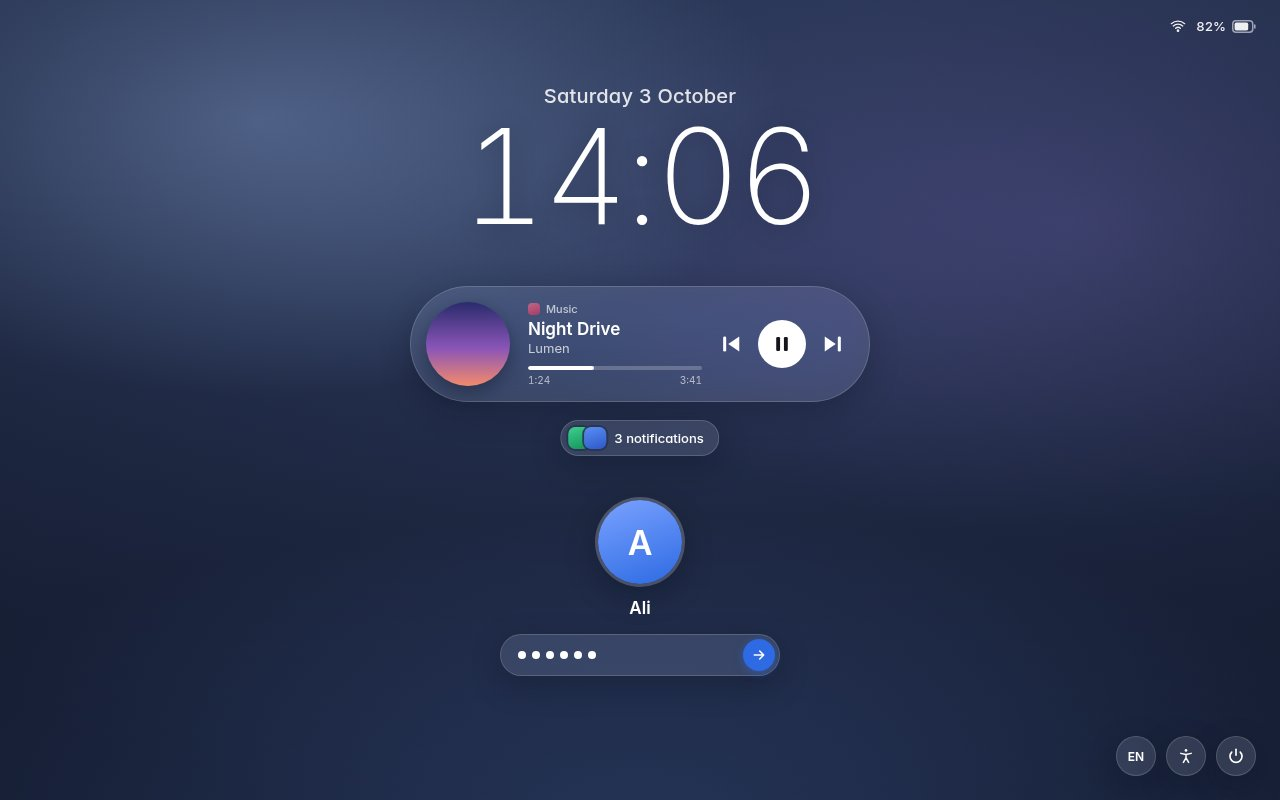
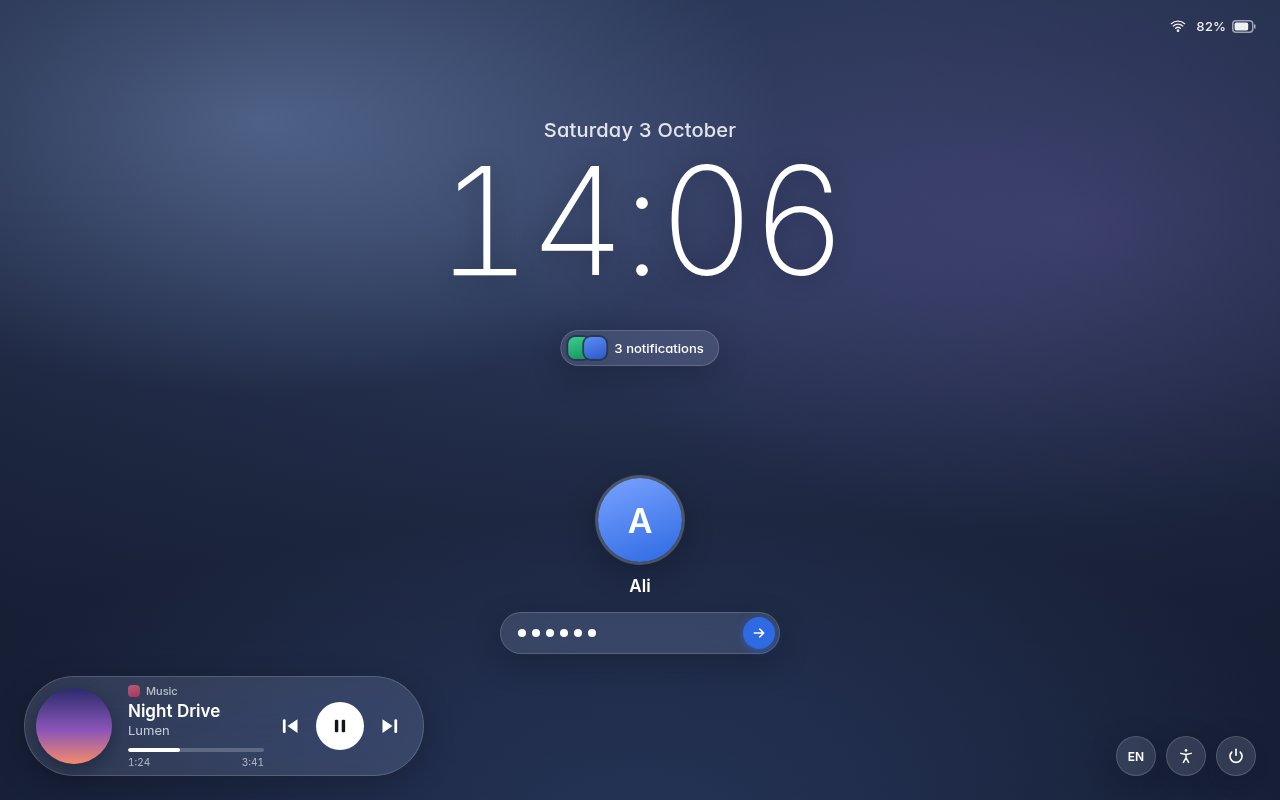
Put the shade's battery back on the clock's row and the lock screen's player in a corner
Alimardon's review of 2026-10-10: the buttons on the top row did not
work, so the clock and the battery share the top row again and the
buttons sit on the date's; the phone lock screen's player moves up
under the clock, leaving room for notifications; and the laptop lock
screen's player, which crowded the middle, becomes a card in the bottom
left corner, across from the buttons.

Claude-Session: https://claude.ai/code/session_01BKmt1qoa5mKGyQ4ytiEsKo

Changed region(s): [[0.3125, 0.1562, 0.6875, 0.8438], [0.0, 0.8438, 0.3438, 0.9688], [0.4375, 0.0938, 0.5625, 0.125]]

diff --git a/docs/mockups/shell/canvas/DecTablet.dc.html b/docs/mockups/shell/canvas/DecTablet.dc.html
@@ -110,13 +110,15 @@ a{color:#2459c9}
 .shelf .more{background:#fff;color:#17191d;box-shadow:0 0 0 .5px rgba(20,22,28,.08),0 1px 2px rgba(20,22,28,.08)}
 /* header actions */
 .head{display:flex;flex-direction:column;gap:0;padding:0 4px 0 6px;font-variant-numeric:tabular-nums}
-.head .l1{display:flex;align-items:center;justify-content:space-between;margin:-2px 0 6px}
-.head .big{font-size:46px;font-weight:700;letter-spacing:-.035em;line-height:1}
+.head .l1,.head .l2{display:flex;align-items:center;justify-content:space-between}
+.head .l1{align-items:flex-start}
+.head .big{font-size:44px;font-weight:700;letter-spacing:-.035em;line-height:1}
+.head .bat{display:flex;align-items:center;gap:6px;font-size:13px;font-weight:600;margin-top:6px}
+.head .l2{margin-top:2px}
+.head .date{font-size:14px;opacity:.62}
 .head .acts{display:flex;gap:8px}
-.head .acts .ib{width:38px !important;height:38px !important;border-radius:12px !important;background:rgba(20,22,28,.06) !important}
-.head .acts .ib svg{width:17px;height:17px}
-.head .bat{display:flex;align-items:center;gap:6px;font-size:13px;font-weight:600}
-.head .date{font-size:14px;opacity:.62;margin-top:4px}
+.head .acts .ib{width:36px !important;height:36px !important;border-radius:11px !important;background:rgba(20,22,28,.06) !important}
+.head .acts .ib svg{width:16px;height:16px}
 .dots{display:flex;justify-content:center;gap:5px;margin:-8px 0 2px}
 .dots i{display:block}
 .wsv{width:94px;overflow:hidden;padding:4px 0;-webkit-mask-image:linear-gradient(90deg,#000 0,#000 calc(100% - 16px),transparent 100%);mask-image:linear-gradient(90deg,#000 0,#000 calc(100% - 16px),transparent 100%)}
@@ -160,7 +162,7 @@ a{color:#2459c9}
 </style>
 </helmet>
 <div class="tab"><div class="tbar"><div style="display:flex;align-items:center" role="group" aria-label="Workspaces, 1 of 7 shown"><span class="wch off"><svg width="10" height="10" viewBox="0 0 24 24" fill="none" stroke="currentColor" stroke-width="3" stroke-linecap="round" stroke-linejoin="round"><path d="M15 5l-7 7 7 7"/></svg></span><div class="wsv" style="width:126px"><div class="wsr" style="gap:6px"><span class="wp on" style="height:32px;min-width:50px;border-radius:16px;font-size:13px">1</span><span class="wp" style="height:32px;min-width:32px;border-radius:16px;font-size:13px">2</span><span class="wp" style="height:32px;min-width:32px;border-radius:16px;font-size:13px">3</span><span class="wp" style="height:32px;min-width:32px;border-radius:16px;font-size:13px">4</span><span class="wp e" style="height:32px;min-width:32px;border-radius:16px;font-size:13px">5</span><span class="wp e" style="height:32px;min-width:32px;border-radius:16px;font-size:13px">6</span><span class="wp e" style="height:32px;min-width:32px;border-radius:16px;font-size:13px">7</span></div></div><span class="wch"><svg width="10" height="10" viewBox="0 0 24 24" fill="none" stroke="currentColor" stroke-width="3" stroke-linecap="round" stroke-linejoin="round"><path d="M9 5l7 7-7 7"/></svg></span></div><button class="btn" style="height:36px;min-width:44px;border-radius:18px" aria-label="Layout: tiling"><svg width="14" height="14" viewBox="0 0 24 24" fill="none" stroke="currentColor" stroke-width="2"><rect x="3.5" y="4.5" width="17" height="15" rx="3"/><path d="M12 4.5v15"/></svg></button><span style="margin-left:auto;display:flex;align-items:center;gap:6px"><span class="arw" style="width:44px;height:44px"><svg width="12" height="12" viewBox="0 0 24 24" fill="none" stroke="currentColor" stroke-width="2.6" stroke-linecap="round" stroke-linejoin="round"><path d="M6 9l6 6 6-6"/></svg></span><span role="img" aria-label="Chat" style="width:24px;height:24px;border-radius:7px;background:#5b7cf0;color:#fff;display:inline-flex;align-items:center;justify-content:center;font-size:13px;font-weight:600;flex:none">C</span><span class="stp" style="height:36px;border-radius:18px;padding:0 14px"><svg width="14" height="14" viewBox="0 0 24 24" fill="none" stroke="currentColor" stroke-width="2.3" stroke-linecap="round"><path d="M2.5 9a14 14 0 0 1 19 0M5.5 12.5a9.5 9.5 0 0 1 13 0M8.6 16a5 5 0 0 1 6.8 0"/><circle cx="12" cy="19.2" r="1.1" fill="currentColor" stroke="none"/></svg><svg width="14" height="14" viewBox="0 0 24 24" fill="none" stroke="currentColor" stroke-width="2" stroke-linecap="round" stroke-linejoin="round"><path d="M4 9.5h3.5L12 5.5v13l-4.5-4H4z" fill="currentColor"/><path d="M15.5 9a4.5 4.5 0 0 1 0 6"/></svg><svg width="18" height="14" viewBox="0 0 28 16" fill="none" stroke="currentColor" stroke-width="1.6"><rect x="1" y="2" width="22" height="12" rx="3.5"/><rect x="3.5" y="4.5" width="14" height="7" rx="1.5" fill="currentColor" stroke="none"/><path d="M25.5 6v4" stroke-linecap="round"/></svg></span><b style="font-size:14px;font-weight:600;padding:0 6px">14:05</b></span></div><div class="win" style="left:8px;top:60px;width:578px;height:752px"><div class="bar28"><span role="img" aria-label="Files" style="width:16px;height:16px;border-radius:4px;background:#6b7280;color:#fff;display:inline-flex;align-items:center;justify-content:center;font-size:8px;font-weight:600;flex:none">B</span><span>Files</span><span class="btns"><span aria-label="Minimize"><svg width="14" height="14" viewBox="0 0 14 14" fill="none" stroke="currentColor" stroke-width="1.5" stroke-linecap="round"><path d="M2.5 7H11.5"/></svg></span><span aria-label="Maximize"><svg width="14" height="14" viewBox="0 0 14 14" fill="none" stroke="currentColor" stroke-width="1"><rect x="2.5" y="2.5" width="9" height="9"/></svg></span><span aria-label="Close"><svg width="14" height="14" viewBox="0 0 14 14" fill="none" stroke="currentColor" stroke-width="1.5" stroke-linecap="round"><path d="M2.5 2.5L11.5 11.5M2.5 11.5L11.5 2.5"/></svg></span></span></div><div class="ln" style="width:90%"></div><div class="ln" style="width:77%"></div><div class="ln" style="width:64%"></div><div class="ln" style="width:51%"></div><div class="ln" style="width:88%"></div><div class="ln" style="width:75%"></div><div class="ln" style="width:62%"></div><div class="ln" style="width:49%"></div><div class="ln" style="width:86%"></div><div class="ln" style="width:73%"></div><div class="ln" style="width:60%"></div><div class="ln" style="width:47%"></div></div><div class="win focused" style="left:594px;top:60px;width:578px;height:752px"><div class="bar28"><span role="img" aria-label="Notes" style="width:16px;height:16px;border-radius:4px;background:#e3a73a;color:#fff;display:inline-flex;align-items:center;justify-content:center;font-size:8px;font-weight:600;flex:none">N</span><span>Notes</span><span class="btns"><span aria-label="Minimize"><svg width="14" height="14" viewBox="0 0 14 14" fill="none" stroke="currentColor" stroke-width="1.5" stroke-linecap="round"><path d="M2.5 7H11.5"/></svg></span><span aria-label="Maximize"><svg width="14" height="14" viewBox="0 0 14 14" fill="none" stroke="currentColor" stroke-width="1"><rect x="2.5" y="2.5" width="9" height="9"/></svg></span><span aria-label="Close"><svg width="14" height="14" viewBox="0 0 14 14" fill="none" stroke="currentColor" stroke-width="1.5" stroke-linecap="round"><path d="M2.5 2.5L11.5 11.5M2.5 11.5L11.5 2.5"/></svg></span></span></div><div class="ln" style="width:90%"></div><div class="ln" style="width:77%"></div><div class="ln" style="width:64%"></div><div class="ln" style="width:51%"></div><div class="ln" style="width:88%"></div><div class="ln" style="width:75%"></div><div class="ln" style="width:62%"></div><div class="ln" style="width:49%"></div><div class="ln" style="width:86%"></div><div class="ln" style="width:73%"></div><div class="ln" style="width:60%"></div><div class="ln" style="width:47%"></div></div><div style="position:absolute;right:12px;top:62px;width:390px;display:flex;flex-direction:column;gap:8px">    <div class="sheet glass">
-      <div class="head"><div class="l1"><span class="bat" aria-label="Battery 82 percent">82%<svg width="24" height="13" viewBox="0 0 28 15" fill="none" stroke="currentColor" stroke-width="1.6" aria-hidden="true"><rect x="1" y="1.5" width="22" height="12" rx="3.6"/><rect x="3.4" y="3.9" width="14.6" height="7.2" rx="1.6" fill="currentColor" stroke="none"/><path d="M25.4 5.8v3.4" stroke-linecap="round"/></svg></span><span class="acts"><button class="ib" aria-label="Edit"><svg width="17" height="17" viewBox="0 0 24 24" fill="none" stroke="currentColor" stroke-width="2" stroke-linecap="round" stroke-linejoin="round"><path d="M4 20h4L19 9l-4-4L4 16z"/></svg></button><button class="ib" aria-label="Settings"><svg width="18" height="18" viewBox="0 0 24 24" fill="none" stroke="currentColor" stroke-width="1.9" stroke-linejoin="round"><circle cx="12" cy="12" r="3"/><path d="M12 2.8l1.7 2.4 2.9-.5.9 2.8 2.7 1.2-.6 2.9 1.6 2.4-2.3 1.8.1 2.9-2.9.4-1.3 2.6L12 21.2l-2.7.9-1.3-2.6-2.9-.4.1-2.9-2.3-1.8 1.6-2.4-.6-2.9 2.7-1.2.9-2.8 2.9.5z"/></svg></button><button class="ib" aria-label="Power: lock, log out, restart or power off"><svg width="17" height="17" viewBox="0 0 24 24" fill="none" stroke="currentColor" stroke-width="2.1" stroke-linecap="round"><path d="M12 3v8"/><path d="M6.3 6.8a8 8 0 1 0 11.4 0"/></svg></button></span></div><div class="big">14:05</div><div class="date">Saturday 3 October 2026</div></div>
+      <div class="head"><div class="l1"><div class="big">14:05</div><span class="bat" aria-label="Battery 82 percent">82%<svg width="24" height="13" viewBox="0 0 28 15" fill="none" stroke="currentColor" stroke-width="1.6" aria-hidden="true"><rect x="1" y="1.5" width="22" height="12" rx="3.6"/><rect x="3.4" y="3.9" width="14.6" height="7.2" rx="1.6" fill="currentColor" stroke="none"/><path d="M25.4 5.8v3.4" stroke-linecap="round"/></svg></span></div><div class="l2"><div class="date">Saturday 3 October 2026</div><span class="acts"><button class="ib" aria-label="Edit"><svg width="17" height="17" viewBox="0 0 24 24" fill="none" stroke="currentColor" stroke-width="2" stroke-linecap="round" stroke-linejoin="round"><path d="M4 20h4L19 9l-4-4L4 16z"/></svg></button><button class="ib" aria-label="Settings"><svg width="18" height="18" viewBox="0 0 24 24" fill="none" stroke="currentColor" stroke-width="1.9" stroke-linejoin="round"><circle cx="12" cy="12" r="3"/><path d="M12 2.8l1.7 2.4 2.9-.5.9 2.8 2.7 1.2-.6 2.9 1.6 2.4-2.3 1.8.1 2.9-2.9.4-1.3 2.6L12 21.2l-2.7.9-1.3-2.6-2.9-.4.1-2.9-2.3-1.8 1.6-2.4-.6-2.9 2.7-1.2.9-2.8 2.9.5z"/></svg></button><button class="ib" aria-label="Power: lock, log out, restart or power off"><svg width="17" height="17" viewBox="0 0 24 24" fill="none" stroke="currentColor" stroke-width="2.1" stroke-linecap="round"><path d="M12 3v8"/><path d="M6.3 6.8a8 8 0 1 0 11.4 0"/></svg></button></span></div></div>
       <div class="grid">
         <button class="pill on" aria-label="Wi-Fi, on, Home 5G"><span class="i"><svg width="19" height="19" viewBox="0 0 24 24" fill="none" stroke="currentColor" stroke-width="2.2" stroke-linecap="round"><path d="M2.5 9a14 14 0 0 1 19 0M5.5 12.5a9.5 9.5 0 0 1 13 0M8.6 16a5 5 0 0 1 6.8 0"/><circle cx="12" cy="19.2" r="1.1" fill="currentColor" stroke="none"/></svg></span><span><div class="n">Wi-Fi</div><div class="s">Home 5G</div></span><span class="chev" aria-hidden="true"><svg width="14" height="14" viewBox="0 0 24 24" fill="none" stroke="currentColor" stroke-width="2.6" stroke-linecap="round" stroke-linejoin="round"><path d="M9 5l7 7-7 7"/></svg></span></button>
         <button class="pill on" aria-label="Mobile data, on"><span class="i"><svg width="19" height="19" viewBox="0 0 24 24" fill="currentColor"><rect x="3" y="14" width="3.2" height="6" rx="1"/><rect x="8.3" y="10.5" width="3.2" height="9.5" rx="1"/><rect x="13.6" y="7" width="3.2" height="13" rx="1"/><rect x="18.9" y="3.5" width="3.2" height="16.5" rx="1" opacity=".4"/></svg></span><span><div class="n">Mobile</div><div class="s">5G</div></span><span class="chev" aria-hidden="true"><svg width="14" height="14" viewBox="0 0 24 24" fill="none" stroke="currentColor" stroke-width="2.6" stroke-linecap="round" stroke-linejoin="round"><path d="M9 5l7 7-7 7"/></svg></span></button>

diff --git a/docs/mockups/shell/canvas/lock.html b/docs/mockups/shell/canvas/lock.html
@@ -53,6 +53,10 @@ body{margin:0;font-family:Inter,"Inter Variable",sans-serif;font-feature-setting
 .bar{height:4px;border-radius:2px;background:rgba(255,255,255,.22);margin-top:10px;overflow:hidden}.bar span{display:block;height:100%;background:#fff;border-radius:2px}
 .times{display:flex;justify-content:space-between;font-size:10px;opacity:.6;margin-top:4px}
 .ctl{display:flex;align-items:center;gap:16px}.pp{width:48px;height:48px;border-radius:50%;background:#fff;display:flex;align-items:center;justify-content:center}
+.mcorner{position:absolute;left:24px;bottom:24px;width:400px;height:100px;border-radius:50px;display:flex;align-items:center;gap:16px;padding:0 24px 0 12px}
+.mcorner .cover{width:76px;height:76px}
+.mside{position:absolute;left:72px;top:50%;transform:translateY(-50%);width:300px;border-radius:30px;padding:24px}
+.art{width:252px;height:252px;border-radius:20px;background:linear-gradient(180deg,#2a2b6c,#8a55b8 55%,#f48a6c);box-shadow:0 14px 34px rgba(6,10,22,.45)}
 /* phones */
 .desk{width:1280px;height:800px;position:relative;background:#dfe3ea;color:#fff;overflow:hidden}
 .phone{position:absolute;top:20px;width:350px;height:760px;border-radius:52px;background:#14161b;padding:10px;box-shadow:0 20px 50px rgba(20,24,36,.28)}
@@ -108,30 +112,20 @@ body{margin:0;font-family:Inter,"Inter Variable",sans-serif;font-feature-setting
   </div>
 </div>
 
-<!-- The lock screen while music plays: the player under the clock. -->
+<!-- The lock screen while music plays: the player in the bottom left corner, across from the buttons. -->
 <div class="screen" id="lock-media">
   <div class="wall"></div>
   <div class="status">
     <svg width="16" height="16" viewBox="0 0 24 24" fill="none" stroke="#fff" stroke-width="2" stroke-linecap="round"><path d="M2 8.5a15 15 0 0 1 20 0M5 12a10 10 0 0 1 14 0M8.5 15.5a5 5 0 0 1 7 0"/><circle cx="12" cy="19" r="1" fill="#fff"/></svg>
     <span style="display:flex;align-items:center;gap:6px">82%<svg width="24" height="13" viewBox="0 0 24 13"><rect x=".75" y=".75" width="20" height="11.5" rx="3.2" fill="none" stroke="#fff" stroke-opacity=".6" stroke-width="1.5"/><rect x="2.6" y="2.6" width="13.6" height="7.8" rx="1.6" fill="#fff"/><rect x="22" y="4.2" width="1.6" height="4.6" rx=".8" fill="#fff" fill-opacity=".6"/></svg></span>
   </div>
-  <div class="date" style="top:84px">Saturday 3 October</div>
-  <div class="clock" style="top:110px;font-size:132px">14:06</div>
-  <div class="mplayer glass">
-    <div class="cover"></div>
-    <div class="meta"><div class="app"><span class="appic"></span>Music</div><div class="title">Night Drive</div><div class="artist">Lumen</div>
-      <div class="bar"><span style="width:38%"></span></div><div class="times"><span>1:24</span><span>3:41</span></div></div>
-    <div class="ctl">
-      <svg width="22" height="22" viewBox="0 0 16 16" fill="#fff"><path d="M14 2.5 6 8l8 5.5z"/><rect x="2.3" y="2.5" width="2.2" height="11" rx="1"/></svg>
-      <div class="pp"><svg width="18" height="18" viewBox="0 0 14 14" fill="#14161b"><rect x="2.5" y="1.5" width="3" height="11" rx="1"/><rect x="8.5" y="1.5" width="3" height="11" rx="1"/></svg></div>
-      <svg width="22" height="22" viewBox="0 0 16 16" fill="#fff"><path d="M2 2.5l8 5.5-8 5.5z"/><rect x="11.5" y="2.5" width="2.2" height="11" rx="1"/></svg>
-    </div>
-  </div>
-  <div class="summary glass" style="top:420px">
+  <div class="date" style="top:118px">Saturday 3 October</div>
+  <div class="clock" style="top:146px;font-size:150px">14:06</div>
+  <div class="summary glass" style="top:330px">
     <div class="stack"><span style="background:linear-gradient(160deg,#3ecf8e,#14915a)"></span><span style="background:linear-gradient(160deg,#5b8ef5,#2d58c8)"></span></div>
     <span style="margin-left:4px">3 notifications</span>
   </div>
-  <div class="who" style="top:500px">
+  <div class="who" style="top:478px">
     <div class="avatar" style="width:84px;height:84px;font-size:34px">A</div>
     <div class="name">Ali</div>
     <div class="field glass">
@@ -140,6 +134,15 @@ body{margin:0;font-family:Inter,"Inter Variable",sans-serif;font-feature-setting
       <span class="go" style="margin-left:auto"><svg width="16" height="16" viewBox="0 0 24 24" fill="none" stroke="#fff" stroke-width="2.4" stroke-linecap="round" stroke-linejoin="round"><path d="M5 12h14M13 6l6 6-6 6"/></svg></span>
     </div>
     <div class="note" style="display:none"><svg width="13" height="13" viewBox="0 0 24 24" fill="none" stroke="#fff" stroke-width="2.2" stroke-linejoin="round" stroke-linecap="round"><path d="M12 4 4 12h4.5v4h7v-4H20z"/></svg>Caps Lock is on</div>
+  </div>
+  <div class="mcorner glass">
+    <div class="cover"></div>
+    <div class="meta"><div class="app"><span class="appic"></span>Music</div><div class="title">Night Drive</div><div class="artist">Lumen</div><div class="bar"><span style="width:38%"></span></div><div class="times"><span>1:24</span><span>3:41</span></div></div>
+    <div class="ctl">
+      <svg width="20" height="20" viewBox="0 0 16 16" fill="#fff"><path d="M14 2.5 6 8l8 5.5z"/><rect x="2.3" y="2.5" width="2.2" height="11" rx="1"/></svg>
+      <div class="pp"><svg width="16" height="16" viewBox="0 0 14 14" fill="#14161b"><rect x="2.5" y="1.5" width="3" height="11" rx="1"/><rect x="8.5" y="1.5" width="3" height="11" rx="1"/></svg></div>
+      <svg width="20" height="20" viewBox="0 0 16 16" fill="#fff"><path d="M2 2.5l8 5.5-8 5.5z"/><rect x="11.5" y="2.5" width="2.2" height="11" rx="1"/></svg>
+    </div>
   </div>
   <div class="corner">
     <div class="btn glass">EN</div>
@@ -186,15 +189,15 @@ body{margin:0;font-family:Inter,"Inter Variable",sans-serif;font-feature-setting
     <div style="position:absolute;top:66px;left:0;right:0;text-align:center"><svg width="14" height="16" viewBox="0 0 14 16" fill="none" stroke="#fff" stroke-width="1.8" opacity=".8"><rect x="1" y="7" width="12" height="8" rx="2.5"/><path d="M3.8 7V5a3.2 3.2 0 0 1 6.4 0v2"/></svg></div>
     <div class="date" style="top:92px;font-size:16px">Saturday 3 October</div>
     <div class="clock" style="top:114px;font-size:92px;letter-spacing:-3px">14:06</div>
-    <div class="card glass" style="top:384px">
+    <div class="card glass" style="top:346px">
       <div class="ic" style="background:linear-gradient(160deg,#3ecf8e,#14915a)"><svg width="18" height="18" viewBox="0 0 24 24" fill="#fff"><circle cx="7" cy="12" r="1.8"/><circle cx="12" cy="12" r="1.8"/><circle cx="17" cy="12" r="1.8"/></svg></div>
       <div><div class="t1">Chat</div><div class="t2">2 new messages</div></div><span class="when">4 min ago</span>
     </div>
-    <div class="card glass" style="top:452px;opacity:.96">
+    <div class="card glass" style="top:414px;opacity:.96">
       <div class="ic" style="background:linear-gradient(160deg,#5b8ef5,#2d58c8)"><svg width="18" height="18" viewBox="0 0 24 24" fill="none" stroke="#fff" stroke-width="2.2" stroke-linecap="round"><path d="M20 12a8 8 0 1 1-2.3-5.6M20 4v5h-5"/></svg></div>
       <div><div class="t1">Update ready</div><div class="t2">Edel OS 2026.11 on the next restart</div></div><span class="when">Now</span>
     </div>
-    <div class="player glass" style="top:262px">
+    <div class="player glass" style="top:226px">
       <div style="width:64px;height:64px;border-radius:50%;flex:none;background:linear-gradient(180deg,#2a2b6c,#8a55b8 55%,#f48a6c)"></div>
       <div><div class="t1" style="font-size:14px">Night Drive</div><div class="t2">Lumen</div></div>
       <div style="margin-left:auto;display:flex;gap:12px;align-items:center">

diff --git a/docs/mockups/shell/canvas/DecPhone.dc.html b/docs/mockups/shell/canvas/DecPhone.dc.html
@@ -110,13 +110,15 @@ a{color:#2459c9}
 .shelf .more{background:#fff;color:#17191d;box-shadow:0 0 0 .5px rgba(20,22,28,.08),0 1px 2px rgba(20,22,28,.08)}
 /* header actions */
 .head{display:flex;flex-direction:column;gap:0;padding:0 4px 0 6px;font-variant-numeric:tabular-nums}
-.head .l1{display:flex;align-items:center;justify-content:space-between;margin:-2px 0 6px}
-.head .big{font-size:46px;font-weight:700;letter-spacing:-.035em;line-height:1}
+.head .l1,.head .l2{display:flex;align-items:center;justify-content:space-between}
+.head .l1{align-items:flex-start}
+.head .big{font-size:44px;font-weight:700;letter-spacing:-.035em;line-height:1}
+.head .bat{display:flex;align-items:center;gap:6px;font-size:13px;font-weight:600;margin-top:6px}
+.head .l2{margin-top:2px}
+.head .date{font-size:14px;opacity:.62}
 .head .acts{display:flex;gap:8px}
-.head .acts .ib{width:38px !important;height:38px !important;border-radius:12px !important;background:rgba(20,22,28,.06) !important}
-.head .acts .ib svg{width:17px;height:17px}
-.head .bat{display:flex;align-items:center;gap:6px;font-size:13px;font-weight:600}
-.head .date{font-size:14px;opacity:.62;margin-top:4px}
+.head .acts .ib{width:36px !important;height:36px !important;border-radius:11px !important;background:rgba(20,22,28,.06) !important}
+.head .acts .ib svg{width:16px;height:16px}
 .dots{display:flex;justify-content:center;gap:5px;margin:-8px 0 2px}
 .dots i{display:block}
 /* even rows */
@@ -129,7 +131,7 @@ a{color:#2459c9}
 <div style="display:flex;gap:40px"><div class="scr">
   <div style="position:absolute;left:8px;right:8px;top:8px;display:flex;flex-direction:column;gap:8px">
     <div class="sheet glass">
-      <div class="head"><div class="l1"><span class="bat" aria-label="Battery 82 percent">82%<svg width="24" height="13" viewBox="0 0 28 15" fill="none" stroke="currentColor" stroke-width="1.6" aria-hidden="true"><rect x="1" y="1.5" width="22" height="12" rx="3.6"/><rect x="3.4" y="3.9" width="14.6" height="7.2" rx="1.6" fill="currentColor" stroke="none"/><path d="M25.4 5.8v3.4" stroke-linecap="round"/></svg></span><span class="acts"><button class="ib" aria-label="Edit"><svg width="17" height="17" viewBox="0 0 24 24" fill="none" stroke="currentColor" stroke-width="2" stroke-linecap="round" stroke-linejoin="round"><path d="M4 20h4L19 9l-4-4L4 16z"/></svg></button><button class="ib" aria-label="Settings"><svg width="18" height="18" viewBox="0 0 24 24" fill="none" stroke="currentColor" stroke-width="1.9" stroke-linejoin="round"><circle cx="12" cy="12" r="3"/><path d="M12 2.8l1.7 2.4 2.9-.5.9 2.8 2.7 1.2-.6 2.9 1.6 2.4-2.3 1.8.1 2.9-2.9.4-1.3 2.6L12 21.2l-2.7.9-1.3-2.6-2.9-.4.1-2.9-2.3-1.8 1.6-2.4-.6-2.9 2.7-1.2.9-2.8 2.9.5z"/></svg></button><button class="ib" aria-label="Power: lock, log out, restart or power off"><svg width="17" height="17" viewBox="0 0 24 24" fill="none" stroke="currentColor" stroke-width="2.1" stroke-linecap="round"><path d="M12 3v8"/><path d="M6.3 6.8a8 8 0 1 0 11.4 0"/></svg></button></span></div><div class="big">14:05</div><div class="date">Saturday 3 October 2026</div></div>
+      <div class="head"><div class="l1"><div class="big">14:05</div><span class="bat" aria-label="Battery 82 percent">82%<svg width="24" height="13" viewBox="0 0 28 15" fill="none" stroke="currentColor" stroke-width="1.6" aria-hidden="true"><rect x="1" y="1.5" width="22" height="12" rx="3.6"/><rect x="3.4" y="3.9" width="14.6" height="7.2" rx="1.6" fill="currentColor" stroke="none"/><path d="M25.4 5.8v3.4" stroke-linecap="round"/></svg></span></div><div class="l2"><div class="date">Saturday 3 October 2026</div><span class="acts"><button class="ib" aria-label="Edit"><svg width="17" height="17" viewBox="0 0 24 24" fill="none" stroke="currentColor" stroke-width="2" stroke-linecap="round" stroke-linejoin="round"><path d="M4 20h4L19 9l-4-4L4 16z"/></svg></button><button class="ib" aria-label="Settings"><svg width="18" height="18" viewBox="0 0 24 24" fill="none" stroke="currentColor" stroke-width="1.9" stroke-linejoin="round"><circle cx="12" cy="12" r="3"/><path d="M12 2.8l1.7 2.4 2.9-.5.9 2.8 2.7 1.2-.6 2.9 1.6 2.4-2.3 1.8.1 2.9-2.9.4-1.3 2.6L12 21.2l-2.7.9-1.3-2.6-2.9-.4.1-2.9-2.3-1.8 1.6-2.4-.6-2.9 2.7-1.2.9-2.8 2.9.5z"/></svg></button><button class="ib" aria-label="Power: lock, log out, restart or power off"><svg width="17" height="17" viewBox="0 0 24 24" fill="none" stroke="currentColor" stroke-width="2.1" stroke-linecap="round"><path d="M12 3v8"/><path d="M6.3 6.8a8 8 0 1 0 11.4 0"/></svg></button></span></div></div>
       <div class="grid">
         <button class="pill on" aria-label="Wi-Fi, on, Home 5G"><span class="i"><svg width="19" height="19" viewBox="0 0 24 24" fill="none" stroke="currentColor" stroke-width="2.2" stroke-linecap="round"><path d="M2.5 9a14 14 0 0 1 19 0M5.5 12.5a9.5 9.5 0 0 1 13 0M8.6 16a5 5 0 0 1 6.8 0"/><circle cx="12" cy="19.2" r="1.1" fill="currentColor" stroke="none"/></svg></span><span><div class="n">Wi-Fi</div><div class="s">Home 5G</div></span><span class="chev" aria-hidden="true"><svg width="14" height="14" viewBox="0 0 24 24" fill="none" stroke="currentColor" stroke-width="2.6" stroke-linecap="round" stroke-linejoin="round"><path d="M9 5l7 7-7 7"/></svg></span></button>
         <button class="pill on" aria-label="Mobile data, on"><span class="i"><svg width="19" height="19" viewBox="0 0 24 24" fill="currentColor"><rect x="3" y="14" width="3.2" height="6" rx="1"/><rect x="8.3" y="10.5" width="3.2" height="9.5" rx="1"/><rect x="13.6" y="7" width="3.2" height="13" rx="1"/><rect x="18.9" y="3.5" width="3.2" height="16.5" rx="1" opacity=".4"/></svg></span><span><div class="n">Mobile</div><div class="s">5G</div></span><span class="chev" aria-hidden="true"><svg width="14" height="14" viewBox="0 0 24 24" fill="none" stroke="currentColor" stroke-width="2.6" stroke-linecap="round" stroke-linejoin="round"><path d="M9 5l7 7-7 7"/></svg></span></button>

diff --git a/docs/ROADMAP.md b/docs/ROADMAP.md
@@ -283,7 +283,7 @@ Every milestone ends with the ab-test, boot-test and install-test still green; a
   Split into PRs on 2026-10-10, ticked as each lands:
   - [x] **10a. The lock screen.** ext-session-lock-v1 in the compositor, Super+L, and shell-ui's lock surface on every screen with a password field, the password checked by the system's own helper. Done when: meta-l shows the lock colour and clicks on windows do nothing; a typed password unlocks. Done with: the compositor's `lock.rs` (only each screen's lock surface drawn, over a cover in the tokens' `backdrop_deep`, the keyboard and pointer to it alone, no shortcut but the volume and brightness keys and the terminals, the lock confirmed once every screen has drawn locked, a dead lock client's lock kept and shell-ui asked to lock again when it links up, `locked` in the state file), the `lock` event of `edel-shell-v1`; shell-ui's `lock.rs` (the phone mockup's lock screen at every size: the date over a large clock, the person's initial on an accent disc, their name and a field of dots, "Wrong password, try again" after a two-second wait) and `lock_card.rs` (the surfaces and the keyboard; the password checked on a thread by `unix_chkpwd`, its places in `edel::places::PASSWORD_CHECKERS`, the "Lock password check" default row); desktop-test `lock` locks with Super+L, finds `backdrop_deep` where the panel was, clicks where a window lies with no change, and unlocks with ci's password after a wrong one.
   - [ ] **10b. The greeter.** shell-ui's `--greeter` mode over greetd's IPC, greetd's `default_session` the compositor as user `greeter` with it on top, installed systems greeting and the live image logging in by itself. Done when: the rest of step 10's Done when.
-  - [ ] **10c. The lock and login screens, polished.** Asked by Alimardon on 2026-10-10 ("much more premium, elegant, and really beautiful", with power buttons in a corner as other systems have): as `docs/mockups/shell/lock.jpg` and `greeter.jpg` draw them. Behind, the person's wallpaper blurred once when the screen locks and dimmed so white text reads on any picture, the tokens' backdrop without one; the date over a large light clock in tabular figures; a count of the notifications that arrived with their apps' icons, never their words; the person's picture or initial; a frosted field with a round go button, a Caps Lock warning, and a short shake on a wrong password (none with reduced motion). In the bottom right corner, round buttons for the keyboard layout (shown with two or more), accessibility (the screen reader, larger text) and power, whose menu offers Suspend, Restart and Shut down, Restart marked when an update waits. The login screen shows the people of the machine to pick with the arrows or a click, and Other to type a name. While music plays, the player sits under the clock as its own frosted card (`shell/lock-media.jpg`): the cover, the app, the title and artist, the time played and previous, play or pause and next, through the same MPRIS code as quick settings (M5.9d). Every part is the person's to change (Alimardon, 2026-10-10: "everything can be customizable"): the lock screen's colours, sizes and glass are design tokens (the clock's size and weight, the text, the glass's tint and blur, the dimming), so the Appearance page and the settings file change them as any token (M5.12b); and a Lock screen group on the Appearance page holds its keys: the background (the wallpaper blurred, by default, or sharp, a colour or a picture), the clock (large, small or none), what notifications show (how many, by default, the apps' names, everything, or nothing), the player (on by default) and the corner's buttons (a list, by default the layout, accessibility and power); each a Settings row, an `edel settings` key and a line of the settings file under one section, their final names set in the step by ADR-008's same names rule. How power gets the right to act without logind is chosen in the step, as a default row. Beyond macOS and Windows: the lock and login screens are one design, power and the layout are one click away on both, and the lock screen says what arrived, never what it says.
+  - [ ] **10c. The lock and login screens, polished.** Asked by Alimardon on 2026-10-10 ("much more premium, elegant, and really beautiful", with power buttons in a corner as other systems have): as `docs/mockups/shell/lock.jpg` and `greeter.jpg` draw them. Behind, the person's wallpaper blurred once when the screen locks and dimmed so white text reads on any picture, the tokens' backdrop without one; the date over a large light clock in tabular figures; a count of the notifications that arrived with their apps' icons, never their words; the person's picture or initial; a frosted field with a round go button, a Caps Lock warning, and a short shake on a wrong password (none with reduced motion). In the bottom right corner, round buttons for the keyboard layout (shown with two or more), accessibility (the screen reader, larger text) and power, whose menu offers Suspend, Restart and Shut down, Restart marked when an update waits. The login screen shows the people of the machine to pick with the arrows or a click, and Other to type a name. While music plays, the player is a frosted card in the bottom left corner, across from the buttons, so the middle stays calm (`shell/lock-media.jpg`): the cover, the app, the title and artist, the time played and previous, play or pause and next, through the same MPRIS code as quick settings (M5.9d). Every part is the person's to change (Alimardon, 2026-10-10: "everything can be customizable"): the lock screen's colours, sizes and glass are design tokens (the clock's size and weight, the text, the glass's tint and blur, the dimming), so the Appearance page and the settings file change them as any token (M5.12b); and a Lock screen group on the Appearance page holds its keys: the background (the wallpaper blurred, by default, or sharp, a colour or a picture), the clock (large, small or none), what notifications show (how many, by default, the apps' names, everything, or nothing), the player (on by default) and the corner's buttons (a list, by default the layout, accessibility and power); each a Settings row, an `edel settings` key and a line of the settings file under one section, their final names set in the step by ADR-008's same names rule. How power gets the right to act without logind is chosen in the step, as a default row. Beyond macOS and Windows: the lock and login screens are one design, power and the layout are one click away on both, and the lock screen says what arrived, never what it says.
     Done when: desktop-test `lock` finds the power button's place and its menu's three rows in shell-ui's log, and the greeter case picks ci from the list by its place. Notes: `shell/lock-phone.jpg` is the same design on a phone, the player under the clock and the notifications after it, built with M9's lock screen. Seam (ADR-002): the lock screen's backdrop is drawn by one function from one picture, so a later step can let the playing song's cover tint it while music plays, as Alimardon suggested on 2026-10-10 for the future, by giving it the cover instead of the wallpaper.
 - [x] **11. Effect tiers and animations.** Full, Balanced, Lite as a state machine from the renderer string, battery state and preset; a frame-deadline monitor drops a tier after N missed frames with hysteresis; open, close, move and workspace animations tied to the display clock; reduce-motion honoured; `edel status`.
   Done when: cargo tests for the state machine; desktop-test logs `tier=lite` under llvmpipe and the frame budget still passes over ten window opens; a forced Full tier logs the drop. Notes: ADR-002 section 5; the tier thresholds come from `edel report` on Alimardon's 2016 laptop. Split into two PRs, ticked as each lands, and started ahead of M5.1b, which waits for the toolkit choice, as the compositor's part needs nothing from shell-ui:
@@ -754,7 +754,7 @@ Dated entries, newest first. Format: `YYYY-MM-DD: what changed, why, which PR`. 
 
 - 2026-10-10: M5.9k added: a notifications button any panel can hold, with a dot, a count or nothing (`notifications.badge`), opening the notifications without the calendar. Asked by Alimardon. PR #210.
 - 2026-10-10: M5.9j added: a setting for where notification banners show, `notifications.position`, by the status area by default. Asked by Alimardon. PR #210.
-- 2026-10-10: M5.10c added: the lock and login screens polished after new mockups (`shell/lock.jpg`, `shell/lock-media.jpg`, `shell/greeter.jpg`, `shell/lock-phone.jpg`), with power, accessibility and the keyboard layout in a corner, the player under the clock while music plays, and every part changeable through tokens and a Lock screen group on the Appearance page; the phone's and tablet's quick settings get a larger clock with the date and year, and their edit, Settings and power buttons move up beside the battery (`shell/phone.jpg`, `shell/tablet.jpg`); the fourth round's quick settings, notifications and phone lock screen pictures are deleted, as the fifth round replaced them. Asked by Alimardon. PR #210.
+- 2026-10-10: M5.10c added: the lock and login screens polished after new mockups (`shell/lock.jpg`, `shell/lock-media.jpg`, `shell/greeter.jpg`, `shell/lock-phone.jpg`), with power, accessibility and the keyboard layout in a corner, the player in the bottom left corner while music plays, and every part changeable through tokens and a Lock screen group on the Appearance page; the phone's and tablet's quick settings get a larger clock with the date and year, and the battery on the clock's row and the edit, Settings and power buttons on the date's (`shell/phone.jpg`, `shell/tablet.jpg`); the fourth round's quick settings, notifications and phone lock screen pictures are deleted, as the fifth round replaced them. Asked by Alimardon. PR #210.
 - 2026-10-10: M5.10 is split into 10a, the lock screen, and 10b, the greeter, so each lands as its own PR; the lock's password is checked with Linux-PAM's own helper (a new "Decisions taken by default" row). PR #208.
 - 2026-10-10: M6.2a added: Flatpak apps quick and light, with their caches, the matching Mesa extension and a ready settings portal in the image, one shared runtime per base release, unused runtimes removed by `edel update`, nothing Flatpak-related running in the background, and CI budgets for an app's cold and warm start and its memory. Ideas gathered with a Fable agent, weighed by the principles; pre-loading files at login waits for a measurement. Asked by Alimardon.
 - 2026-10-10: M5.2j-b4 grows the overview's blur (on Full and Balanced once there is a wallpaper, a dim on Lite), keeps the panels shown in the overview, and adds a tooltip on a strip frame with the workspace's whole name and its apps. A description for each workspace was considered and left out: the name already says it, and a new setting costs a Settings row, a key and a file line for something most people would leave empty (Simple). Asked by Alimardon.

diff --git a/docs/mockups/README.md b/docs/mockups/README.md
@@ -65,7 +65,7 @@ review of M8.18 first) may revisit them for better taste.
 |---|---|
 | [shell/laptop.jpg](shell/laptop.jpg) | Classic on a laptop: quick settings over the status area, the player its own card above it, brightness and volume on the bottom shelf, edit, Settings and power in the footer beside the battery |
 | [shell/tablet.jpg](shell/tablet.jpg) | Tablet: tiled under a top bar; quick settings at touch size in the top right corner, with the phone's header, the player below it |
-| [shell/phone.jpg](shell/phone.jpg) | Phone: quick settings pulled down, its header the battery with edit, Settings and power on the top row, then a large clock over the date with the year (Alimardon, 2026-10-10), the player below; the volume pop-up beside the volume keys |
+| [shell/phone.jpg](shell/phone.jpg) | Phone: quick settings pulled down, its header a large clock with the battery at the right, then the date with the year and the edit, Settings and power buttons (Alimardon, 2026-10-10), the player below; the volume pop-up beside the volume keys |
 | [shell/notifications-laptop.jpg](shell/notifications-laptop.jpg) | A click on the clock: the notifications card, with Do not disturb as a moon button in its title row and Clear all, the calendar card below |
 | [shell/notifications-phone.jpg](shell/notifications-phone.jpg) | Phone: a swipe down from the top left opens a full shade, with no card and no calendar, the battery shown |
 | [shell/notifications-tablet.jpg](shell/notifications-tablet.jpg) | Tablet: the same shade over the dimmed screen |
@@ -78,7 +78,7 @@ review of M8.18 first) may revisit them for better taste.
 | [shell/player.jpg](shell/player.jpg) | The player card (M5.9i, chosen by Alimardon on 2026-10-10 as option 2A): a pill, its app's icon and name small at the top centre; with several players each is a page, switched by scrolling sideways, a swipe or a click on tiny dots under the controls, the shown dot a short accent pill |
 | [shell/overview.jpg](shell/overview.jpg) | The overview, Super+W (M5.2j-b, approved by Alimardon on 2026-10-10): every workspace small in a strip on a frosted tray, a frame to add one, search, and the shown workspace's windows large and labelled; a workspace dragged along the strip reorders them; the strip down the left by default, or on any side with `workspaces.overview_strip`; a click on the switcher's lit workspace opens it too |
 | [shell/lock.jpg](shell/lock.jpg) | The lock screen (M5.10c, proposed 2026-10-10): the wallpaper blurred and dimmed, the date over a large light clock, how many notifications came and from which apps, never their words, the person and a frosted password field with a Caps Lock warning; in the bottom right corner the keyboard layout, accessibility and power, its menu open: Suspend, Restart (an update waits) and Shut down |
-| [shell/lock-media.jpg](shell/lock-media.jpg) | The lock screen while music plays (M5.10c): the player under the clock as its own frosted card, with the cover, the time played and the controls |
+| [shell/lock-media.jpg](shell/lock-media.jpg) | The lock screen while music plays (M5.10c): the player as a frosted card in the bottom left corner, across from the buttons, with the cover, the time played and the controls |
 | [shell/greeter.jpg](shell/greeter.jpg) | The login screen (M5.10c): the same design, the people of the machine to pick and Other to type a name |
 | [shell/lock-phone.jpg](shell/lock-phone.jpg) | A phone's lock screen (M9): the player under the clock, then the notifications as frosted cards saying only what arrived, the torch and camera; then the passcode on round frosted keys |
 | [shell/options.jpg](shell/options.jpg) | The other layouts a person can switch to: the shelf at the top, both shelves, the player inside the grid, the sliders standing in it |
@@ -102,8 +102,8 @@ The rules under them:
   then (Alimardon, 2026-10-10, `shell/player.jpg`).
 - **Edit, Settings and power** sit on the anchored edge: the footer on a
   bottom panel; when the sheet hangs from the top (phone, tablet), the
-  header's top row, beside the battery, as 38 px rounded squares over a
-  large clock and the date with the year (Alimardon, 2026-10-10). A chevron on a pill opens its
+  header, as 36 px rounded squares on the date's row, under a large
+  clock with the battery at its right (Alimardon, 2026-10-10). A chevron on a pill opens its
   details in place.
 - **A slider is only a slider.** One lying on a shelf has its chevron
   beside it; one standing in the grid has no button at all: a right
